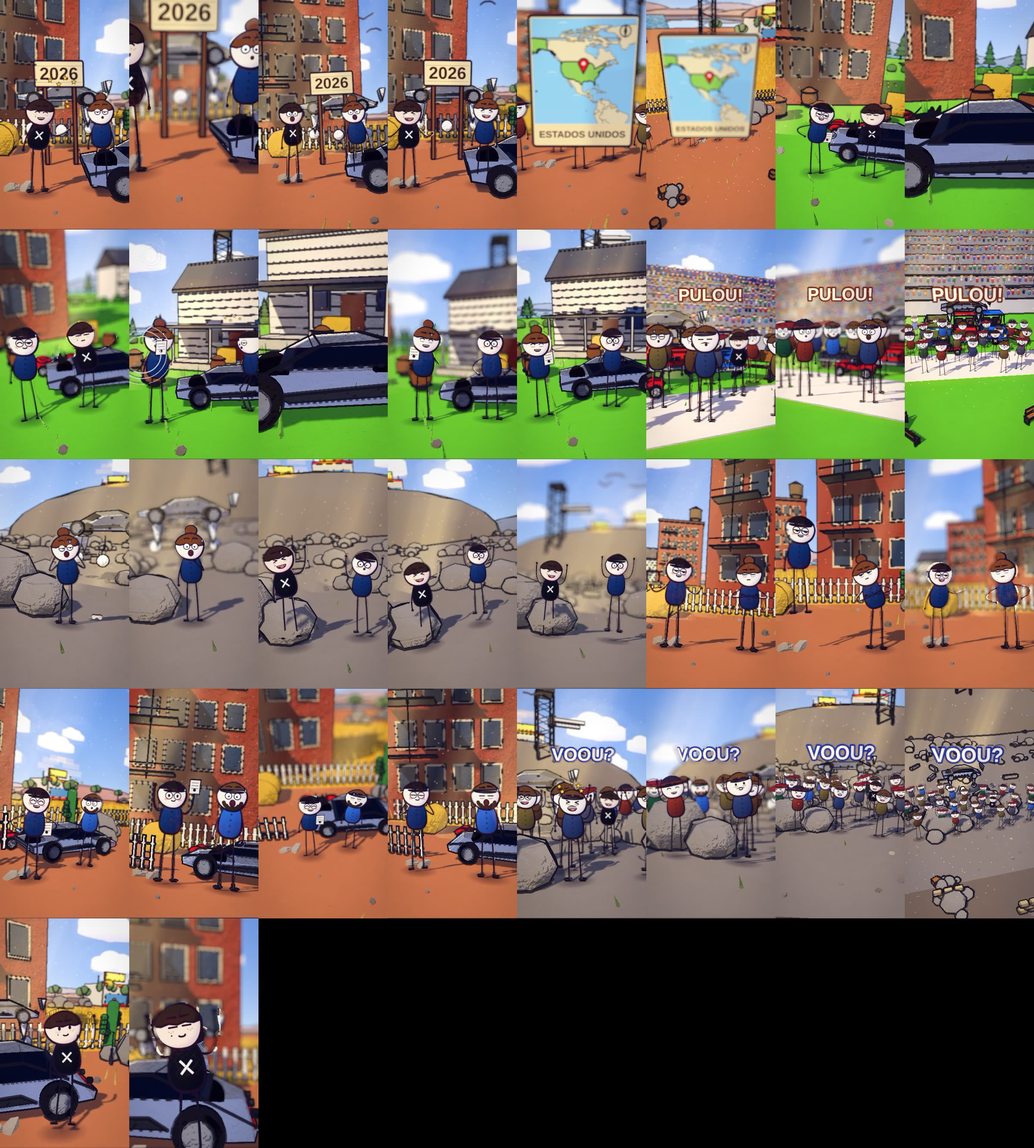
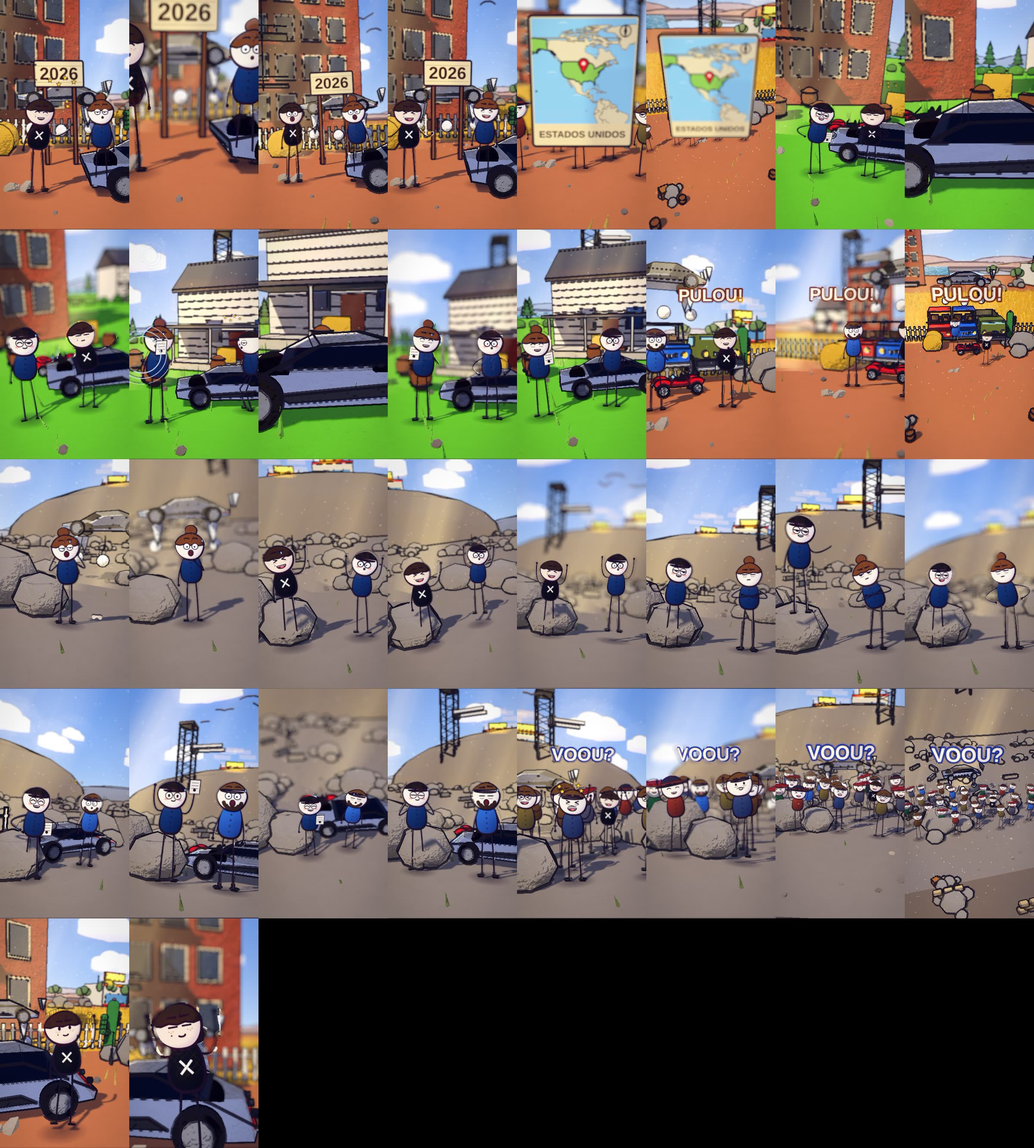
maduro2026 revisao+aprovacao (b6 b8 CORRIGIDO)
Claude-Session: https://claude.ai/code/session_01HE8Dy3Tz5Mgz6d3rSUrMHS

Changed region(s): [[0.625, 0.1869, 1.0, 0.6229], [0.0, 0.5917, 0.5, 0.8098]]

diff --git a/ferramenta-shorts/stories/maduro2026/revisao_storyboard.md b/ferramenta-shorts/stories/maduro2026/revisao_storyboard.md
@@ -1,0 +1,11 @@
+b0: OK - sala escura de madrugada com a placa 2026, Trump de gravata vermelha e o general ao lado com um helicoptero ao fundo, Trump autorizou a operacao militar em janeiro de dois mil e vinte e seis.
+b1: OK - mapa da VENEZUELA com marcador em Caracas e depois rua com personagens, o alvo estava em Caracas a capital da Venezuela.
+b2: OK - campo com Maduro de preto cruzando os bracos ao lado de um personagem, close do acusado gritando, o presidente venezuelano Nicolas Maduro acusado de narcoterrorismo.
+b3: OK - sala com Trump e um agente de preto com o papel do estudo e anel de segredo, durante meses a inteligencia americana estudou cada passo dele em segredo.
+b4: OK - noite com soldados da Forca Delta em multidao verde com a placa DELTA e um helicoptero escuro sobre eles, helicopteros levaram os soldados ao complexo onde Maduro estava.
+b5: OK - noite com soldado em plano baixo no cais e helicoptero no alto com estouro de luz, ataques aereos desligaram as defesas antiaereas do pais.
+b6: CORRIGIDO - so um soldado aparecia na captura, sem Maduro -> Maduro assustado cercado por dois soldados de capacete no cais a noite, em menos de tres horas Maduro foi capturado.
+b7: OK - sala com Trump e o general de chapeu rindo ao lado, de longe na Florida ao lado do diretor da CIA e do secretario de Estado acompanhando tudo.
+b8: CORRIGIDO - aviao longe demais para aparecer e helicoptero na cabeca do personagem -> Maduro e o agente na rua com o pergaminho e o aviao mais proximo ao lado, Maduro foi levado de aviao para Nova York.
+b9: OK - multidao na praca com a placa MUNDO de bracos erguidos e depois plano aberto, nenhum militar americano morreu e a noticia parou o mundo dividindo opinioes.
+b10: OK - close de Trump sorrindo de bracos erguidos com estrelas e o pergaminho heroi ao lado, a operacao ganhou um nome que resume tudo Resolucao Absoluta.
